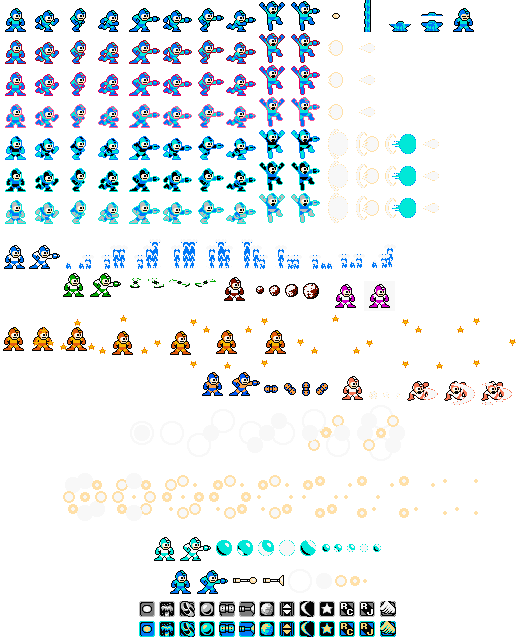
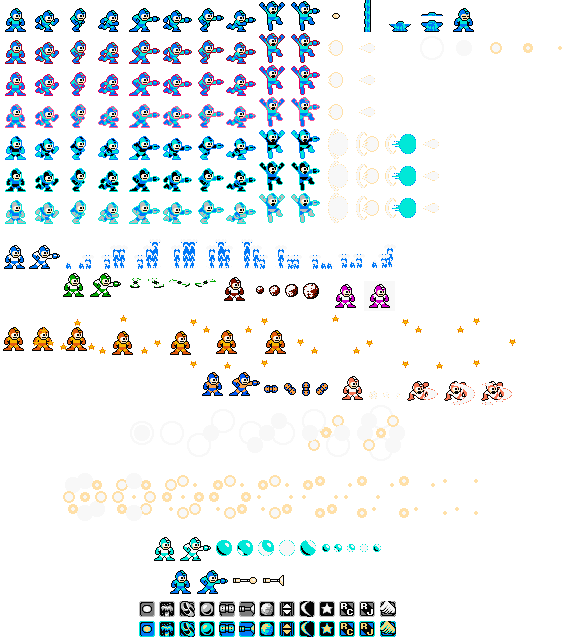
Added death animation on Mega Man spawn. Edited sprite sheet to put it on the second row to conserve space. Created a death particle container to add all the death particles to that prevent the scroll bar from appearing when the particles move off screen.

diff --git a/assets/scripts/classes/death-particle.js b/assets/scripts/classes/death-particle.js
@@ -1,0 +1,134 @@
+export default class DeathParticle {
+    framesMoved = 0;
+    time = 0;
+
+    static list = [];
+    static movingSpeed = 1;
+    static maxFrames = 15000;
+    static offsetParticleTimer = 50;
+    static secondParticleOffset = 300;
+    static updateBoundsFrame = 5;
+
+    static container = null;
+
+    /**
+     * Constructs a new DeathParticle
+     * 
+     * @param {DOMRect} boundingClientRect - To position correctly in setPosition
+     * @param {number} angle - Multiple of 45 degrees
+     * @param {number} initialDistance - Half are to be offset from the initial ring of particles
+     */
+    constructor(boundingClientRect, angle, initialDistance) {
+        this.boundingClientRect = boundingClientRect;
+        this.angle = angle;
+        this.initialDistance = initialDistance;
+        this.distance = initialDistance * DeathParticle.secondParticleOffset;
+        
+        // Disable movement and start timer for secondary ring of particles
+        this.disable = initialDistance > 0;
+
+        this.createHtmlElement();
+        this.setPosition();
+        this.setVector();
+    }
+
+    /**
+     * Create a new HTMLDivElement death-particle
+     */
+    createHtmlElement() {
+        this.element = document.createElement('div');
+        this.element.classList.add('death-particle');
+        this.element.classList.add('spread');
+
+        // If the container doesn't exist, create it and add it to the body
+        if (!DeathParticle.container) {
+            // Creates container to stop scroll bar from appearing when particles move off screen
+            DeathParticle.container = document.querySelector('.particle-container');
+            DeathParticle.container = document.createElement('div');
+            DeathParticle.container.classList.add('particle-container');
+            document.body.appendChild(DeathParticle.container);
+        }
+
+        // Append the particle to the container
+        DeathParticle.container.appendChild(this.element);
+
+        DeathParticle.list.push(this);
+    }
+
+    /**
+     * Position the particles on Mega Man
+     */
+    setPosition() {
+        // Calculate position relative to Mega Man
+        const relativeTop = (this.boundingClientRect.top + this.boundingClientRect.bottom) / 2 - (this.element.offsetHeight / 2);
+        const relativeLeft = (this.boundingClientRect.left + this.boundingClientRect.right) / 2 - (this.element.offsetWidth / 2);
+
+        // Position particle
+        this.element.style.left = `${relativeLeft}px`;
+        this.element.style.top = `${relativeTop}px`;
+    }
+
+    /**
+     * Calculate vectorX and vectorY using the angle
+     */
+    setVector() {
+        const angleInRadians = this.angle * (Math.PI / 180);
+
+        // Set the x and y components based on the angle
+        this.vectorX = Math.cos(angleInRadians);
+        this.vectorY = Math.sin(angleInRadians);
+
+        // Normalize the vector to ensure consistent speed in all directions
+        const magnitude = Math.sqrt(this.vectorX ** 2 + this.vectorY ** 2);
+        this.vectorX /= magnitude;
+        this.vectorY /= magnitude;
+    }
+
+    /**
+     * Main control function that runs every frame to handle all functionality
+     */
+    update() {
+        if (this.disable) {
+            this.updateTimer();
+            return;
+        }
+
+        this.move();
+    }
+
+    /**
+     * Wait until time has reached offsetParticleTimer to give an appropriate offset from the initial ring
+     */
+    updateTimer() {
+        if (!this.disable) return;
+
+        if (this.initialDistance > 0) {
+            if (++this.time >= DeathParticle.offsetParticleTimer) {
+                this.disable = false;
+            }
+        }
+    }
+
+    /**
+     * Start animation to move the death particle linearly in a circle shape
+     */
+    move() {
+        // Update position
+        this.distance += DeathParticle.movingSpeed;
+        this.element.style.setProperty('--positionX', `${this.distance * this.vectorX}px`);
+        this.element.style.setProperty('--positionY', `${this.distance * this.vectorY}px`);
+
+        // Check if bullet hits the edge of the screen or moves more than maxFrames
+        if (++this.framesMoved >= DeathParticle.maxFrames - this.time) {
+            this.delete();
+        }
+    }
+
+    /**
+     * Remove death particle from HTML Doc and static list
+     */
+    delete() {
+        this.element.remove();
+        DeathParticle.list.splice(DeathParticle.list.indexOf(this), 1);
+    }
+}

diff --git a/assets/styles/death-particle.css b/assets/styles/death-particle.css
@@ -1,0 +1,54 @@
+.particle-container {
+    position: fixed;
+    top: 0;
+    left: 0;
+    width: 100vw;
+    height: 100vh;
+    overflow: hidden;
+    pointer-events: none;
+    z-index: 9999;
+}
+
+.death-particle {
+    --positionX: 0px;
+    --positionY: 0px;
+
+    /* Sprite Initialization */
+    width: 32px;
+    height: 32px;
+    background-image: url('../images/megaman-animations.png');
+    background-position: -416px -32px;
+    background-repeat: no-repeat;
+
+    /* Position, Movement, and Scale */
+    position: absolute;
+    transform: translate(var(--positionX), var(--positionY)) scale(4);
+    transform-origin: center;
+}
+
+.death-particle.spread {
+    animation: spread 0.25s steps(1, end) infinite;
+    animation-fill-mode: forwards;
+}
+
+@keyframes spread {
+    0% {
+        background-position: -416px -32px;
+    }
+
+    20% {
+        background-position: -448px -32px;
+    }
+
+    40% {
+        background-position: -480px -32px;
+    }
+
+    60% {
+        background-position: -512px -32px;
+    }
+
+    80% {
+        background-position: -544px -32px;
+    }
+}

diff --git a/assets/scripts/classes/mega-man.js b/assets/scripts/classes/mega-man.js
@@ -1,5 +1,6 @@
 import Bullet from './bullet.js';
 import CollisionObject from './collision-object.js';
+import DeathParticle from './death-particle.js';
 import MegaManAnimation from './mega-man-animation.js';
 import Time from '../utils/time.js';
 import Window from '../utils/window.js';
@@ -85,6 +86,11 @@ export default class MegaMan {
                 this.animationController.updateSpawn(true);
                 this.spawned = true;
                 this.updateBounds();
+
+                const boundingClientRect = this.element.getBoundingClientRect();
+                for (let i = 0; i < 16; i++) {
+                    new DeathParticle(boundingClientRect, 45 * (i % 8), Math.floor(i / 8));
+                }
             }
         }
     }

diff --git a/assets/scripts/utils/window.js b/assets/scripts/utils/window.js
@@ -8,7 +8,7 @@ export default class Window {
     static right = 0;
 
     /**
-     * Updates the bounds for the Window as well as all objects in it to ensure collisions function correctly
+     * Update the bounds for the Window as well as all objects in it to ensure collisions function correctly
      * 
      * TODO: Add the death animation here later
      * 
@@ -19,7 +19,7 @@ export default class Window {
     static resize(collisionDistance, megaMan = null, collisionObjects = []) {
         megaMan?.updateBounds();
         collisionObjects.forEach(object => object.updateBounds());
-        
+
         Window.top = 0;
         Window.bottom = window.innerHeight + scrollY - collisionDistance;
         Window.left = 0;

diff --git a/assets/scripts/index.js b/assets/scripts/index.js
@@ -1,5 +1,6 @@
 import Bullet from './classes/bullet.js';
 import CollisionObject from './classes/collision-object.js';
+import DeathParticle from './classes/death-particle.js';
 import MegaMan from './classes/mega-man.js';
 import Time from './utils/time.js';
 import Window from './utils/window.js';
@@ -21,6 +22,11 @@ function gameLoop() {
     // Handle all bullet movement
     Bullet.list.forEach(bullet => {
         bullet.update();
+    });
+
+    // Handle all death particle movement
+    DeathParticle.list.forEach(particle => {
+        particle.update();
     });
 
     requestAnimationFrame(gameLoop);

diff --git a/assets/styles/main.css b/assets/styles/main.css
@@ -1,5 +1,6 @@
-@import url('mega-man.css');
 @import url('bullet.css');
+@import url('death-particle.css');
+@import url('mega-man.css');
 
 body {
     display: flex;
